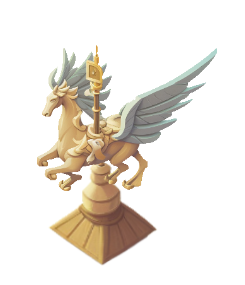
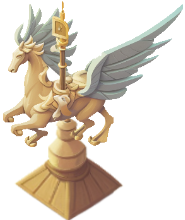
fixed up some offset stuff, what should be next hmm

diff --git a/Assets/Scripts/CellGrid.cs b/Assets/Scripts/CellGrid.cs
@@ -94,44 +94,44 @@ public class CellGrid
   }
 
   //Base version of SetValue, other overloads just lead here
-  public void SetValue(int x, int z, CellData data)
+  public void SetValue(int x, int z, CellData data, Vector2 XZOffsetFromTileMin = default(Vector2))
   {
     if (x >= 0 && z >= 0 && x < width && z < height)
     {
       data.renderers = data.renderers == null ? this.gridArray[x, z].renderers : data.renderers;
       this.gridArray[x, z] = data;
-      TriggerGridCellChanged(x, z);
+      TriggerGridCellChanged(x, z, XZOffsetFromTileMin);
     }
   }
 
-  public void SetValue(Vector3 worldPos, CellData value)
+  public void SetValue(Vector3 worldPos, CellData value, Vector2 XZOffsetFromTileMin = default(Vector2))
   {
     Vector2 xz = GetXZ(worldPos);
 
     if (xz.x < 0 && xz.y < 0) return;
 
-    SetValue((int)xz.x, (int)xz.y, value);
+    SetValue((int)xz.x, (int)xz.y, value, XZOffsetFromTileMin);
   }
 
-  public void SetValue(Vector3 worldPos, string fieldName, object value)
+  public void SetValue(Vector3 worldPos, string fieldName, object value, Vector2 XZOffsetFromTileMin = default(Vector2))
   {
     Vector2 xz = GetXZ(worldPos);
 
     if (xz.x < 0 && xz.y < 0) return;
 
-    SetValue((int)xz.x, (int)xz.y, fieldName, value);
+    SetValue((int)xz.x, (int)xz.y, fieldName, value, XZOffsetFromTileMin);
   }
 
-  public void SetValue(int x, int y, string fieldName, object value)
+  public void SetValue(int x, int y, string fieldName, object value, Vector2 XZOffsetFromTileMin = default(Vector2))
   {
     CellData data = GetValue(x, y);
 
     data?.GetType()?.GetField(fieldName)?.SetValue(data, value);
 
-    SetValue(x, y, data);
+    SetValue(x, y, data, XZOffsetFromTileMin);
   }
 
-  public void TriggerGridCellChanged(int x, int z)
+  public void TriggerGridCellChanged(int x, int z, Vector2 XZOffsetFromTileMin = default(Vector2))
   {
     //for now it just keeps numbers going, will eventually update sprites too
     if (isDebugging && gridArray[x, z].renderers.textMesh != null)
@@ -149,10 +149,12 @@ public class CellGrid
       Vector3 currentPos = gridArray[x, z].renderers.spriteRenderer.transform.position;
       Bounds bounds = gridArray[x, z].renderers.spriteRenderer.bounds;
 
-      if (currentPos.y <= originPosition.y + bounds.size.y / 2)
-      {
-        currentPos.y = originPosition.y + bounds.size.y / 2;
-      }
+      currentPos.y = originPosition.y + bounds.size.y / 2;
+
+      //check if its already at that offset from the tile center
+      Vector3 cellCenter = GetWorldPosition(x, z);
+      currentPos.x = cellCenter.x + XZOffsetFromTileMin.x;
+      currentPos.z = cellCenter.z + XZOffsetFromTileMin.y;
 
       gridArray[x, z].renderers.spriteRenderer.transform.position = currentPos;
 

diff --git a/Assets/Scripts/GameController.cs b/Assets/Scripts/GameController.cs
@@ -39,10 +39,17 @@ public class GameController : MonoBehaviour
     inputAction.FindActionMap("Building").FindAction("Click").performed += ctx => MouseClick(ctx);
   }
 
+  void OnValidate()
+  {
+    if (isUpgrading)
+      layerToTarget.PlaceSpriteAtCell(upgradeable.cell, upgradeable.optionSprites[upgradeableChoiceIdx], upgradeable.XZOffsetFromTileCenter);
+  }
+
   void MouseClick(CallbackContext ctx)
   {
     Vector2 mousePosition = inputAction.FindAction("Pos").ReadValue<Vector2>();
-    layerToTarget.grid.SetValue(mousePosition, "sprite", spriteToPlace);
+    float cellSize = layerToTarget.grid.cellSize;
+    layerToTarget.grid.SetValue(mousePosition, "sprite", spriteToPlace, new Vector2(cellSize / 2, cellSize / 2));
   }
 
   void Update()
@@ -64,10 +71,6 @@ public class GameController : MonoBehaviour
     {
       isUpgrading = false;
       layerToTarget.RemoveCellHighlights();
-    }
-    else if (isUpgrading)
-    {
-      layerToTarget.PlaceSpriteAtCell(upgradeable.cell, upgradeable.optionSprites[upgradeableChoiceIdx]);
     }
   }
 

diff --git a/Assets/Scripts/GridLayer.cs b/Assets/Scripts/GridLayer.cs
@@ -50,9 +50,9 @@ public class GridLayer : MonoBehaviour
     highlight.transform.SetParent(gameController.highlightsParent, false);
   }
 
-  public void PlaceSpriteAtCell(Vector2Int cell, Sprite sprite)
+  public void PlaceSpriteAtCell(Vector2Int cell, Sprite sprite, Vector2 XZOffsetFromTileCenter)
   {
-    grid.SetValue(cell.x, cell.y, "sprite", sprite);
+    grid.SetValue(cell.x, cell.y, "sprite", sprite, XZOffsetFromTileCenter);
   }
 
   public void RemoveCellHighlights()

diff --git a/Assets/Scripts/Upgradeable.cs b/Assets/Scripts/Upgradeable.cs
@@ -7,6 +7,7 @@ public class Upgradeable : ScriptableObject
 {
   public string gridId;
   public Vector2Int cell;
+  public Vector2 XZOffsetFromTileCenter;
   public List<Sprite> optionSprites;
   public Upgradeable(string gridId, Vector2Int cell)
   {
